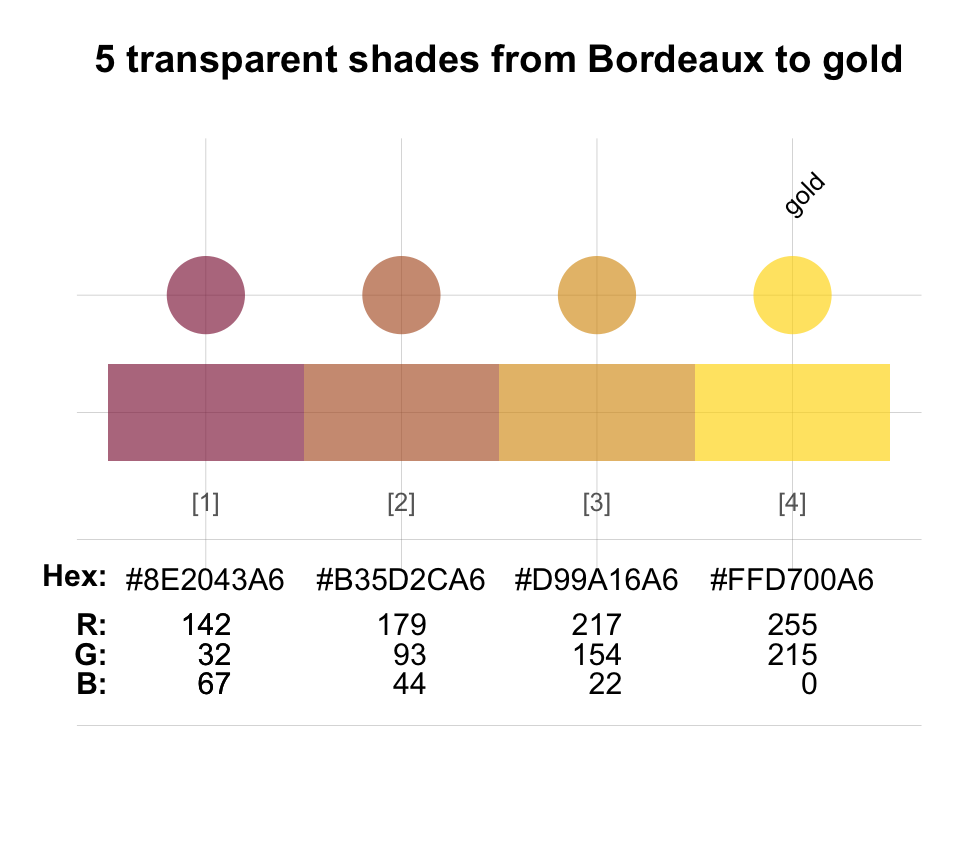
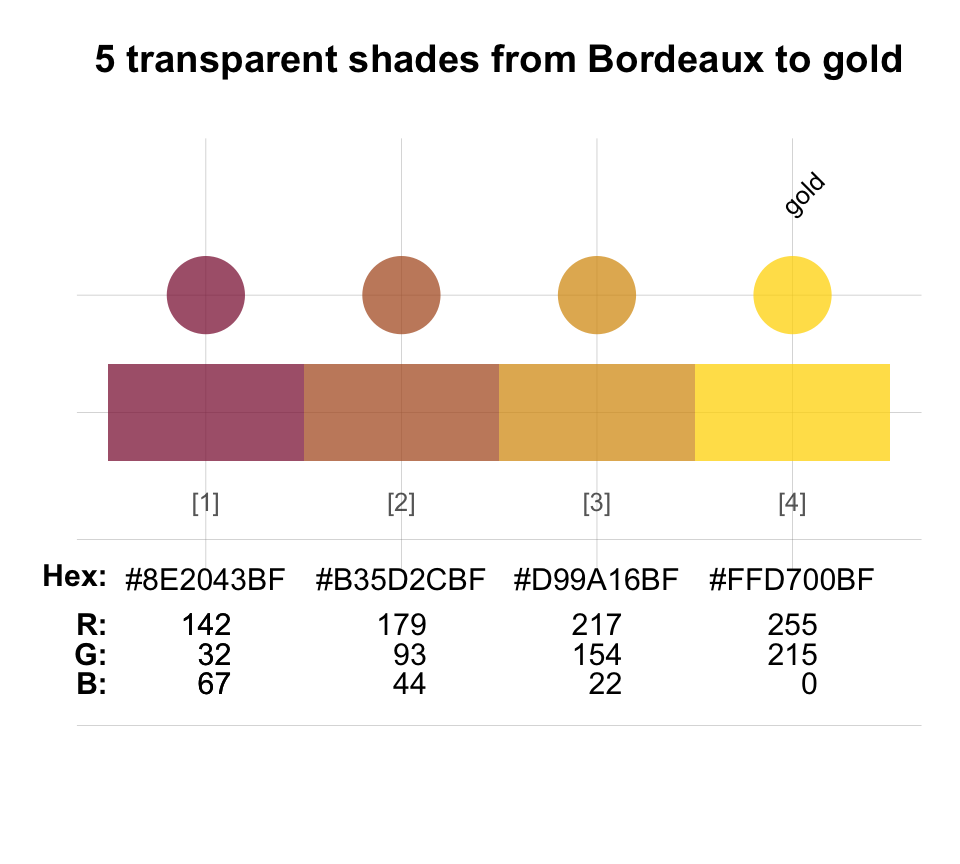
update documentation

Changed region(s): [[0.5312, 0.6562, 0.9062, 0.6875], [0.125, 0.6562, 0.5, 0.6875]]

diff --git a/docs/dev/articles/color_recipes.html b/docs/dev/articles/color_recipes.html
@@ -106,7 +106,7 @@
                         <h4 data-toc-skip class="author">SPDS,
 uni.kn</h4>
             
-            <h4 data-toc-skip class="date">2022 11 10</h4>
+            <h4 data-toc-skip class="date">2022 11 30</h4>
       
       <small class="dont-index">Source: <a href="https://github.com/hneth/unikn/blob/HEAD/vignettes/color_recipes.Rmd" class="external-link"><code>vignettes/color_recipes.Rmd</code></a></small>
       <div class="hidden name"><code>color_recipes.Rmd</code></div>
@@ -247,11 +247,32 @@ of <code><a href="https://rdrr.io/r/grDevices/palettes.html" class="external-lin
 <p>For instance, let’s create and compare a set of 20 random HCL
 palettes:</p>
 <ul>
-<li><p>Generate random HCL palettes (and save them as a list):</p></li>
-<li><p>Use <code><a href="../reference/seecol.html">seecol()</a></code> for comparing multiple color
-palettes:</p></li>
+<li>Generate random HCL palettes (and save them as a list):</li>
 </ul>
 <div class="sourceCode" id="cb5"><pre class="downlit sourceCode r">
+<code class="sourceCode R"><span><span class="co"># Parameters:</span></span>
+<span><span class="va">n_col</span> <span class="op">&lt;-</span>  <span class="fl">8</span>   <span class="co"># colors in each palette</span></span>
+<span><span class="va">n_pal</span> <span class="op">&lt;-</span> <span class="fl">20</span>   <span class="co"># length(hcl.pals())</span></span>
+<span><span class="va">ptype</span> <span class="op">&lt;-</span> <span class="cn">NULL</span> <span class="co"># c("diverging", "divergingx", "qualitative", "sequential")[4] </span></span>
+<span></span>
+<span><span class="va">s_pal</span> <span class="op">&lt;-</span> <span class="fu"><a href="https://rdrr.io/r/base/sample.html" class="external-link">sample</a></span><span class="op">(</span>x <span class="op">=</span> <span class="fu"><a href="https://rdrr.io/r/grDevices/palettes.html" class="external-link">hcl.pals</a></span><span class="op">(</span>type <span class="op">=</span> <span class="va">ptype</span><span class="op">)</span>, size <span class="op">=</span> <span class="va">n_pal</span>, replace <span class="op">=</span> <span class="cn">FALSE</span><span class="op">)</span></span>
+<span><span class="va">s_pal</span> <span class="op">&lt;-</span> <span class="fu"><a href="https://rdrr.io/r/base/sort.html" class="external-link">sort</a></span><span class="op">(</span><span class="va">s_pal</span><span class="op">)</span></span>
+<span></span>
+<span><span class="co"># Initialize:</span></span>
+<span><span class="va">t_lbl</span> <span class="op">&lt;-</span> <span class="fu"><a href="https://rdrr.io/r/base/paste.html" class="external-link">paste0</a></span><span class="op">(</span><span class="st">"See "</span>, <span class="va">n_pal</span>, <span class="st">" random HCL color palettes (n = "</span>, <span class="va">n_col</span>, <span class="st">")"</span><span class="op">)</span> </span>
+<span><span class="va">l_pal</span> <span class="op">&lt;-</span> <span class="fu"><a href="https://rdrr.io/r/base/vector.html" class="external-link">vector</a></span><span class="op">(</span><span class="st">"list"</span>, <span class="va">n_pal</span><span class="op">)</span>  <span class="co"># lists of palettes</span></span>
+<span></span>
+<span><span class="co"># Loop:</span></span>
+<span><span class="kw">for</span> <span class="op">(</span><span class="va">i</span> <span class="kw">in</span> <span class="fl">1</span><span class="op">:</span><span class="va">n_pal</span><span class="op">)</span><span class="op">{</span></span>
+<span>  </span>
+<span>  <span class="va">l_pal</span><span class="op">[[</span><span class="va">i</span><span class="op">]</span><span class="op">]</span> <span class="op">&lt;-</span> <span class="fu"><a href="https://rdrr.io/r/grDevices/palettes.html" class="external-link">hcl.colors</a></span><span class="op">(</span>n <span class="op">=</span> <span class="va">n_col</span>, palette <span class="op">=</span> <span class="va">s_pal</span><span class="op">[</span><span class="va">i</span><span class="op">]</span><span class="op">)</span></span>
+<span>  </span>
+<span><span class="op">}</span></span></code></pre></div>
+<ul>
+<li>Use <code><a href="../reference/seecol.html">seecol()</a></code> for comparing multiple color
+palettes:</li>
+</ul>
+<div class="sourceCode" id="cb6"><pre class="downlit sourceCode r">
 <code class="sourceCode R"><span><span class="fu"><a href="../reference/seecol.html">seecol</a></span><span class="op">(</span>pal <span class="op">=</span> <span class="va">l_pal</span>, </span>
 <span>       pal_names <span class="op">=</span> <span class="va">s_pal</span>,</span>
 <span>       col_brd <span class="op">=</span> <span class="st">"white"</span>, lwd_brd <span class="op">=</span> <span class="fl">1</span>,</span>
@@ -265,7 +286,7 @@ palettes:</p></li>
 color.</p>
 <p>Use the <code><a href="../reference/simcol.html">simcol()</a></code> function for finding (and
 plotting/seeing) similar colors:</p>
-<div class="sourceCode" id="cb6"><pre class="downlit sourceCode r">
+<div class="sourceCode" id="cb7"><pre class="downlit sourceCode r">
 <code class="sourceCode R"><span><span class="fu"><a href="../reference/simcol.html">simcol</a></span><span class="op">(</span><span class="st">"forestgreen"</span><span class="op">)</span></span>
 <span><span class="co">#&gt;    forestgreen    chartreuse4         green4      olivedrab     olivedrab4 </span></span>
 <span><span class="co">#&gt;  "forestgreen"  "chartreuse4"       "green4"    "olivedrab"   "olivedrab4" </span></span>
@@ -280,7 +301,7 @@ in RGB values. If this distance falls below some tolerance value(s)
 (<code>tol</code>), the corresponding <code>col_candidates</code> are
 shown and returned. Thus, increasing the tolerance value yields a wider
 range of colors:</p>
-<div class="sourceCode" id="cb7"><pre class="downlit sourceCode r">
+<div class="sourceCode" id="cb8"><pre class="downlit sourceCode r">
 <code class="sourceCode R"><span><span class="fu"><a href="../reference/simcol.html">simcol</a></span><span class="op">(</span>col_target <span class="op">=</span> <span class="st">"orange"</span>, col_candidates <span class="op">=</span> <span class="va">pal_unikn_pref</span>, tol <span class="op">=</span> <span class="fl">150</span><span class="op">)</span></span>
 <span><span class="co">#&gt;    orange     Pinky     Peach    Signal  Bordeaux </span></span>
 <span><span class="co">#&gt;  "orange" "#E0607E" "#FEA090" "#EFDC60" "#8E2043"</span></span></code></pre></div>
@@ -288,7 +309,7 @@ range of colors:</p>
 <p>Specifying a vector of three <code>tol</code> values compares RGB
 dimensions in the order of their rank. This allows for more fine-grained
 similarity searches:</p>
-<div class="sourceCode" id="cb8"><pre class="downlit sourceCode r">
+<div class="sourceCode" id="cb9"><pre class="downlit sourceCode r">
 <code class="sourceCode R"><span><span class="fu"><a href="../reference/simcol.html">simcol</a></span><span class="op">(</span>col_target <span class="op">=</span> <span class="va">Seeblau</span>, tol <span class="op">=</span> <span class="fu"><a href="https://rdrr.io/r/base/c.html" class="external-link">c</a></span><span class="op">(</span><span class="fl">20</span>, <span class="fl">20</span>, <span class="fl">80</span><span class="op">)</span><span class="op">)</span></span>
 <span><span class="co">#&gt;         Seeblau    lightskyblue   lightskyblue2         skyblue        skyblue1 </span></span>
 <span><span class="co">#&gt;       "#59C7EB"  "lightskyblue" "lightskyblue2"       "skyblue"      "skyblue1" </span></span>
@@ -315,7 +336,7 @@ palette (as an R data frame or vector).</p></li>
 <p>Once a new palette has been defined, it can be inspected (with
 <code><a href="../reference/seecol.html">seecol()</a></code>) or further modified and used in visualizations
 (with <code><a href="../reference/usecol.html">usecol()</a></code>):</p>
-<div class="sourceCode" id="cb9"><pre class="downlit sourceCode r">
+<div class="sourceCode" id="cb10"><pre class="downlit sourceCode r">
 <code class="sourceCode R"><span><span class="co"># 1. Choose colors:</span></span>
 <span><span class="co"># Google logo colors (from &lt;https://www.schemecolor.com/google-logo-colors.php&gt;)</span></span>
 <span></span>
@@ -343,7 +364,7 @@ provides additional examples for defining color palettes.</p>
 pattern (as a regular expression).</p>
 <p>Here are some additional examples for using the <code><a href="../reference/grepal.html">grepal()</a></code>
 function for finding colors by their names (or a pattern):</p>
-<div class="sourceCode" id="cb10"><pre class="downlit sourceCode r">
+<div class="sourceCode" id="cb11"><pre class="downlit sourceCode r">
 <code class="sourceCode R"><span><span class="co"># Get color palettes matching a pattern:</span></span>
 <span><span class="va">pal_1</span> <span class="op">&lt;-</span> <span class="fu"><a href="../reference/grepal.html">grepal</a></span><span class="op">(</span><span class="st">"orange"</span>, plot <span class="op">=</span> <span class="cn">FALSE</span><span class="op">)</span></span>
 <span><span class="va">pal_2</span> <span class="op">&lt;-</span> <span class="fu"><a href="../reference/grepal.html">grepal</a></span><span class="op">(</span><span class="st">"olive"</span>, plot <span class="op">=</span> <span class="cn">FALSE</span><span class="op">)</span></span>
@@ -357,7 +378,7 @@ function for finding colors by their names (or a pattern):</p>
 <p>Providing a list of color palettes to the <code>pal</code> argument
 of the <code><a href="../reference/seecol.html">seecol()</a></code> function allows comparing multiple color
 palettes:</p>
-<div class="sourceCode" id="cb11"><pre class="downlit sourceCode r">
+<div class="sourceCode" id="cb12"><pre class="downlit sourceCode r">
 <code class="sourceCode R"><span><span class="co"># See multiple color palettes:</span></span>
 <span><span class="fu"><a href="../reference/seecol.html">seecol</a></span><span class="op">(</span>pal <span class="op">=</span> <span class="fu"><a href="https://rdrr.io/r/base/list.html" class="external-link">list</a></span><span class="op">(</span><span class="va">pal_1</span>, <span class="va">pal_2</span>, <span class="va">pal_3</span><span class="op">)</span>, </span>
 <span>       pal_names <span class="op">=</span> <span class="fu"><a href="https://rdrr.io/r/base/c.html" class="external-link">c</a></span><span class="op">(</span><span class="st">"orange"</span>, <span class="st">"olive"</span>, <span class="st">"white"</span><span class="op">)</span>, </span>
@@ -372,7 +393,7 @@ expressions, and that (b) the <code>x</code> argument of
 violet” provided by the <strong>grDevices</strong> vector of named
 <code><a href="https://rdrr.io/r/grDevices/colors.html" class="external-link">colors()</a></code> with various shades of “blau”, “pink”, “peach” and
 “bordeaux” provided by <strong>unikn</strong> color palettes:</p>
-<div class="sourceCode" id="cb12"><pre class="downlit sourceCode r">
+<div class="sourceCode" id="cb13"><pre class="downlit sourceCode r">
 <code class="sourceCode R"><span><span class="co"># Search colors() with specific patterns (in their names): </span></span>
 <span><span class="va">blues</span>    <span class="op">&lt;-</span> <span class="fu"><a href="../reference/grepal.html">grepal</a></span><span class="op">(</span><span class="st">"blue$"</span>, plot <span class="op">=</span> <span class="cn">FALSE</span><span class="op">)</span>   <span class="co"># ending on "blue"</span></span>
 <span><span class="va">oranges</span>  <span class="op">&lt;-</span> <span class="fu"><a href="../reference/grepal.html">grepal</a></span><span class="op">(</span><span class="st">"orange"</span>, plot <span class="op">=</span> <span class="cn">FALSE</span><span class="op">)</span>  <span class="co"># containing "orange"</span></span>
@@ -402,30 +423,39 @@ an initial color .</p>
 <p>By default, <code>shades_of(n)</code> yields <code>n</code> shades
 ranging from <code>col_1 = "black"</code> to <code>col_n = "white</code>
 (i.e., <code>n</code> shades of grey):</p>
-<div class="sourceCode" id="cb13"><pre class="downlit sourceCode r">
+<div class="sourceCode" id="cb14"><pre class="downlit sourceCode r">
 <code class="sourceCode R"><span><span class="va">greys</span> <span class="op">&lt;-</span> <span class="fu"><a href="../reference/shades_of.html">shades_of</a></span><span class="op">(</span><span class="fl">10</span><span class="op">)</span></span>
 <span><span class="fu"><a href="../reference/seecol.html">seecol</a></span><span class="op">(</span><span class="va">greys</span>, main <span class="op">=</span> <span class="st">"10 shades of grey"</span><span class="op">)</span></span></code></pre></div>
 <p><img src="color_recipes_files/figure-html/shades-of-example-1-1.png" width="60%" style="display: block; margin: auto;"></p>
 <p>By adjusting <code>n</code>, the initial color <code>col_1</code>,
 and/or the final color <code>col_n</code>, we can conveniently create
 simple color ranges:</p>
-<div class="sourceCode" id="cb14"><pre class="downlit sourceCode r">
-<code class="sourceCode R"><span><span class="fu"><a href="../reference/seecol.html">seecol</a></span><span class="op">(</span><span class="fu"><a href="../reference/shades_of.html">shades_of</a></span><span class="op">(</span><span class="fl">4</span>, <span class="va">Seeblau</span>, <span class="st">"black"</span><span class="op">)</span>, main <span class="op">=</span> <span class="st">"4 shades of Seeblau"</span><span class="op">)</span></span></code></pre></div>
-<p><img src="color_recipes_files/figure-html/shades-of-example-2-1.png" width="60%" style="display: block; margin: auto;"></p>
 <div class="sourceCode" id="cb15"><pre class="downlit sourceCode r">
-<code class="sourceCode R"><span><span class="fu"><a href="../reference/seecol.html">seecol</a></span><span class="op">(</span><span class="fu"><a href="../reference/shades_of.html">shades_of</a></span><span class="op">(</span><span class="fl">7</span>, <span class="st">"forestgreen"</span><span class="op">)</span>, main <span class="op">=</span> <span class="st">"7 shades of 'forestgreen'"</span><span class="op">)</span></span></code></pre></div>
-<p><img src="color_recipes_files/figure-html/shades-of-example-2-2.png" width="60%" style="display: block; margin: auto;"></p>
+<code class="sourceCode R"><span><span class="fu"><a href="../reference/seecol.html">seecol</a></span><span class="op">(</span><span class="fu"><a href="../reference/shades_of.html">shades_of</a></span><span class="op">(</span><span class="fl">4</span>, <span class="va">Seeblau</span>, <span class="st">"black"</span><span class="op">)</span>, main <span class="op">=</span> <span class="st">"4 shades of Seeblau"</span><span class="op">)</span></span>
+<span><span class="fu"><a href="../reference/seecol.html">seecol</a></span><span class="op">(</span><span class="fu"><a href="../reference/shades_of.html">shades_of</a></span><span class="op">(</span><span class="fl">5</span>, <span class="st">"forestgreen"</span><span class="op">)</span>, main <span class="op">=</span> <span class="st">"5 shades of 'forestgreen'"</span><span class="op">)</span></span></code></pre></div>
 <p>Using <code>alpha</code> in the range <span class="math inline">\([0;
-1]\)</span> allows adjusting the transparency of the obtained
-colors:</p>
+1]\)</span> allows adjusting the transparency of the color gradient:</p>
 <div class="sourceCode" id="cb16"><pre class="downlit sourceCode r">
-<code class="sourceCode R"><span><span class="va">wine_gold</span> <span class="op">&lt;-</span> <span class="fu"><a href="../reference/shades_of.html">shades_of</a></span><span class="op">(</span><span class="fl">4</span>, <span class="va">Bordeaux</span>, col_n <span class="op">=</span> <span class="st">"gold"</span>, alpha <span class="op">=</span> <span class="fl">.65</span><span class="op">)</span></span>
+<code class="sourceCode R"><span><span class="va">wine_gold</span> <span class="op">&lt;-</span> <span class="fu"><a href="../reference/shades_of.html">shades_of</a></span><span class="op">(</span><span class="fl">4</span>, <span class="va">Bordeaux</span>, col_n <span class="op">=</span> <span class="st">"gold"</span>, alpha <span class="op">=</span> <span class="fl">.75</span><span class="op">)</span></span>
 <span><span class="fu"><a href="../reference/seecol.html">seecol</a></span><span class="op">(</span><span class="va">wine_gold</span>, main <span class="op">=</span> <span class="st">"5 transparent shades from Bordeaux to gold"</span><span class="op">)</span></span></code></pre></div>
 <p><img src="color_recipes_files/figure-html/shades-of-example-3-1.png" width="60%" style="display: block; margin: auto;"></p>
-<p>Note that <code><a href="../reference/shades_of.html">shades_of()</a></code> is merely a convenient wrapper
+</div>
+<div class="section level2">
+<h2 id="creating-color-gradients">Creating color gradients<a class="anchor" aria-label="anchor" href="#creating-color-gradients"></a>
+</h2>
+<p><strong>Task:</strong> Creating color gradients.</p>
+<p>The <code><a href="../reference/shades_of.html">shades_of()</a></code> function is merely a convenient wrapper
 function for the <code><a href="../reference/usecol.html">usecol()</a></code> function. Using the
 <code>pal</code> argument of <code><a href="../reference/usecol.html">usecol()</a></code> allows defining more
-complex color gradients (e.g., by specifying more than two colors).</p>
+complex color gradients (e.g., by specifying more than two colors). For
+instance, to create a bi-polar (divergent) color palette, we could mix
+two main colors with “white” and then remove the middle color:</p>
+<div class="sourceCode" id="cb17"><pre class="downlit sourceCode r">
+<code class="sourceCode R"><span><span class="co"># Create bi-polar color gradient (and remove 'white' middle color):</span></span>
+<span><span class="va">divergent_gradient</span> <span class="op">&lt;-</span> <span class="fu"><a href="../reference/usecol.html">usecol</a></span><span class="op">(</span>pal <span class="op">=</span> <span class="fu"><a href="https://rdrr.io/r/base/c.html" class="external-link">c</a></span><span class="op">(</span><span class="st">"firebrick"</span>, <span class="st">"white"</span>, <span class="st">"steelblue"</span><span class="op">)</span>, n <span class="op">=</span> <span class="fl">7</span><span class="op">)</span><span class="op">[</span><span class="op">-</span><span class="fl">4</span><span class="op">]</span></span>
+<span></span>
+<span><span class="fu"><a href="../reference/seecol.html">seecol</a></span><span class="op">(</span><span class="va">divergent_gradient</span>, main <span class="op">=</span> <span class="st">"A bi-polar color palette"</span><span class="op">)</span></span></code></pre></div>
+<p><img src="color_recipes_files/figure-html/gradient-example-1-1.png" width="60%" style="display: block; margin: auto;"></p>
 </div>
 <div class="section level2">
 <h2 id="resources">Resources<a class="anchor" aria-label="anchor" href="#resources"></a>
